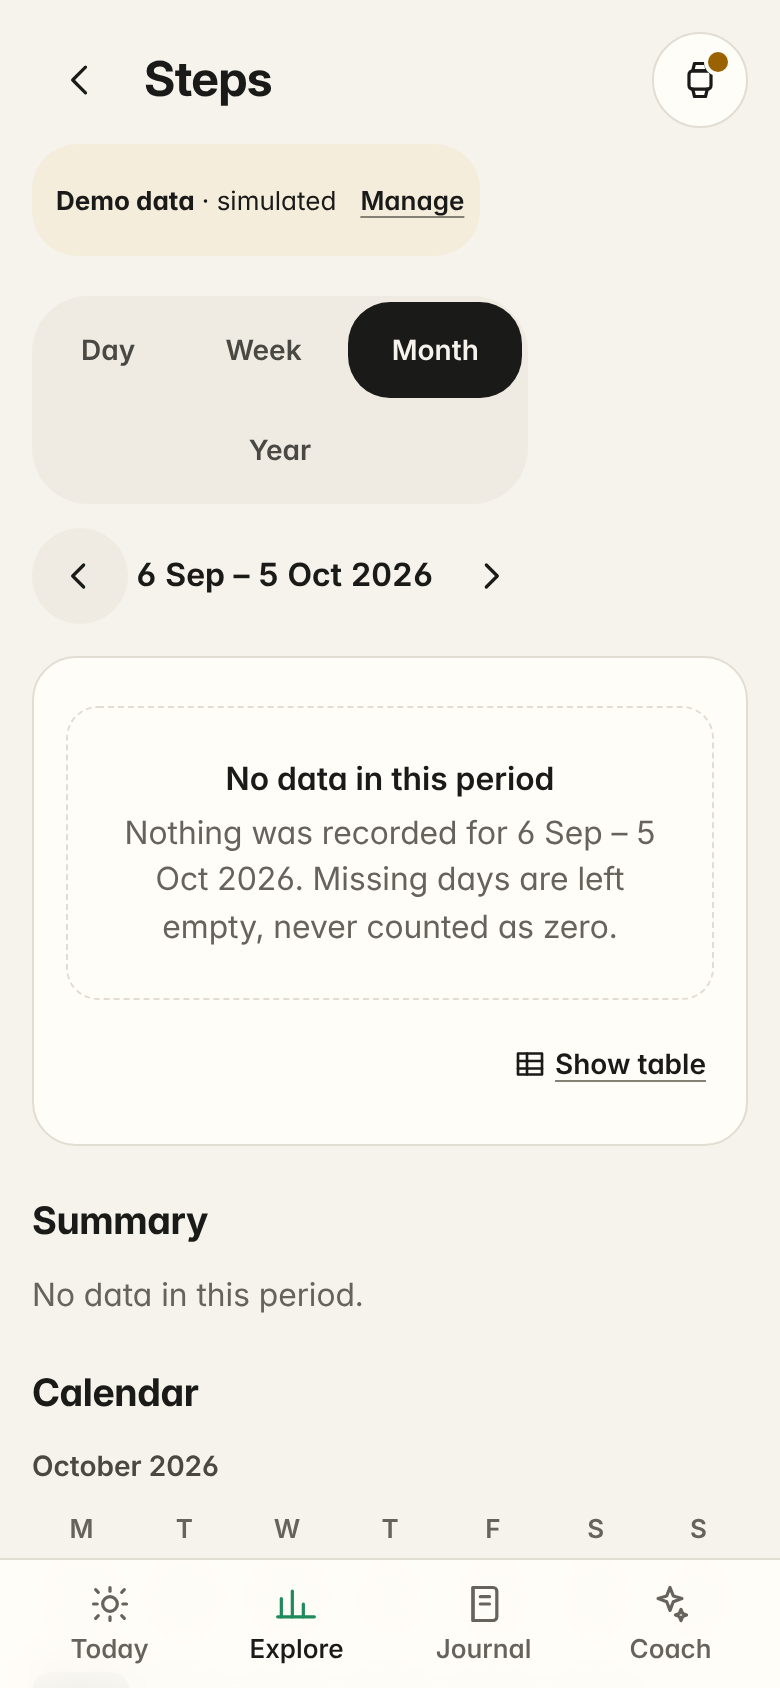
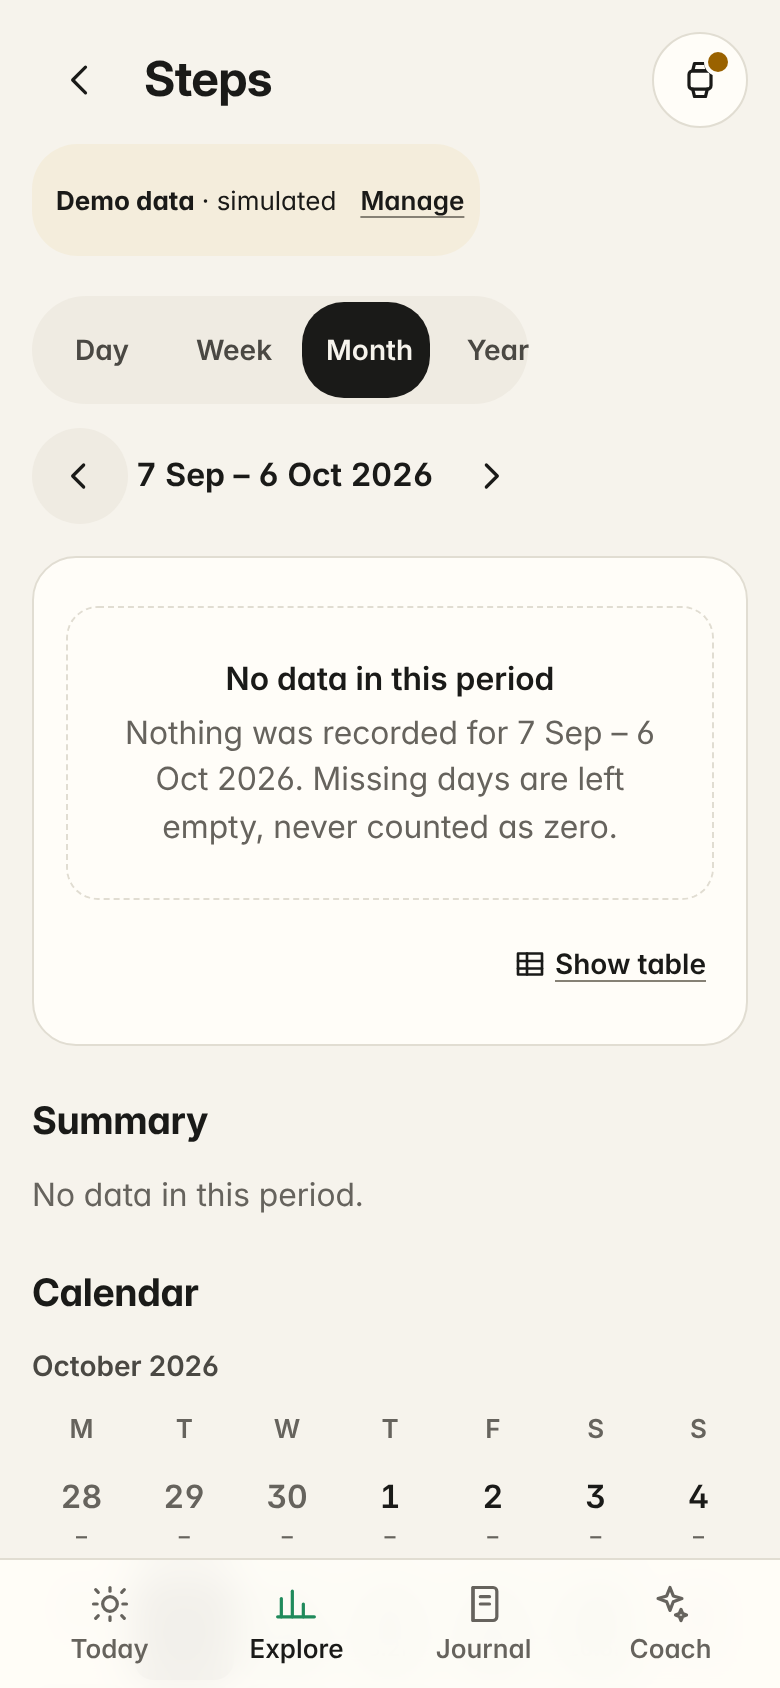
Fix round-three review findings: daily totals across zones, selector, labels
- A daily total covers its whole day: once used, lower-ranked records for
  that day are counted as overlapped whatever frame they were recorded in
  (no double counting when the home zone is far ahead, e.g. Sydney).
- Coverage uses the frame-clipped intervals, so counters recorded abroad
  report their real share of the day.
- Demo never puts the disconnect (and live readings) in the future just
  after midnight; the browser test runs at a fixed time of day.
- Range selector stays on one row; it wraps only when large text leaves
  no room (container query in em).
- Axis labels use the smallest regular step that fits, so spacing stays even.
- The running-counter footnote appears only when a counter produced the
  selected day's value.
- Favourites grid reflows to one column at large text.

Claude-Session: https://claude.ai/code/session_01VbyZ4WPkwabFdouNp5ib2H

diff --git a/app/style/app.css b/app/style/app.css
@@ -570,7 +570,11 @@ body:has(.app) .preboot { display: none; }
 /* ---- Large text (Android font scale / zoom up to 200%) ----------------- */
 .tile.hero { container: hero / inline-size; }
 /* Segmented control: equal columns that wrap into two rows rather than overflow. */
-.segmented { flex-wrap: wrap; }
+.segmented { flex-wrap: nowrap; }
+/* Only wrap the range selector when large text leaves no room for one row
+   (em here follows the user's text size). */
+.detail-controls { container: controls / inline-size; }
+@container controls (max-width: 17.5em) { .segmented { flex-wrap: wrap; } }
 .seg { flex: 1 1 auto; min-width: min(64px, 100%); padding: 0 var(--s3); }
 /* Tab labels are short, fixed words: cap their growth so four always fit. */
 .tab { font-size: min(var(--fs-xs), 17px); min-width: 0; }
@@ -582,3 +586,6 @@ body:has(.app) .preboot { display: none; }
    the radius tracks the text size instead of being infinite. */
 .btn, .status-strip, .date-pick, .demo-banner.compact, .segmented { border-radius: min(var(--r-pill), 1.75em); }
 .seg { border-radius: min(var(--r-pill), 1.5em); }
+.fav-grid { grid-template-columns: repeat(auto-fit, minmax(min(100%, 8.5rem), 1fr)); }
+@media (min-width: 560px) { .fav-grid { grid-template-columns: repeat(auto-fit, minmax(min(100%, 8.5rem), 1fr)); } }
+.fav-grid > * { min-width: 0; }

diff --git a/crates/airspace-core/src/aggregate.rs b/crates/airspace-core/src/aggregate.rs
@@ -585,9 +585,17 @@ fn additive_with(s: &mut DaySummary, day: NaiveDate, ms: &[&Measurement], contex
     let mut parts = vec![];
     let mut overlapped = 0u32;
     let mut rejected = 0u32;
+    let mut daily_total_used = false;
     for ((_, source), mut g) in groups {
         let kind = g[0].kind;
         let origin = g[0].prov.origin;
+        // A daily total is the whole day by definition: once one is used, every
+        // lower-ranked record for that day is already counted in it, whatever
+        // time frame it was recorded in.
+        if daily_total_used {
+            overlapped += g.len() as u32;
+            continue;
+        }
         g.sort_by_key(|m| (m.start, m.prov.ingested_at));
         let mut total = 0.0;
         // The exact intervals this source contributed (coverage uses these, not the span).
@@ -607,6 +615,7 @@ fn additive_with(s: &mut DaySummary, day: NaiveDate, ms: &[&Measurement], contex
                 overlapped += g.len() as u32 - 1;
                 extend(ds, de, &mut span);
                 contributed = true;
+                daily_total_used = true;
             }
             SampleKind::Interval => {
                 let mut last_end = i64::MIN;
@@ -712,7 +721,9 @@ fn additive_with(s: &mut DaySummary, day: NaiveDate, ms: &[&Measurement], contex
         s.method = "No usable records".into();
     } else {
         s.value = Some(parts.iter().map(|p| p.value).sum());
-        let covered_ms = union_len(all_intervals, ds, de);
+        // Counter parts are already clipped to the day in the frame they were
+        // recorded in, which may not be the home zone's day bounds.
+        let covered_ms = union_len(all_intervals, i64::MIN / 4, i64::MAX / 4);
         s.coverage = Some((covered_ms as f64 / (de - ds) as f64).min(1.0));
         s.method = if parts.len() == 1 {
             format!("From {}", parts[0].label.to_lowercase())
@@ -988,6 +999,26 @@ mod tests {
             .collect();
         let total: f64 = summarize(&items, &ctx).iter().filter_map(|x| x.value).sum();
         assert_eq!(total, 1300.0);
+    }
+
+    #[test]
+    fn daily_total_wins_even_when_home_zone_is_far_ahead() {
+        // Daily total 12,000 plus a 2,000-step interval recorded at 09:00 −04:00;
+        // home zone Sydney, where that interval falls on the next calendar day.
+        let h = 3_600_000;
+        let ctx = SummaryContext { tz: parse_tz("Australia/Sydney"), now: i64::MAX / 2, demo: false };
+        let mut total = m(Metric::Steps, SampleKind::DailyTotal, D0, None, 12_000.0, Origin::HistoryImport);
+        total.day = Some("2026-10-30".into());
+        total.id = measurement_id(&total);
+        let mut iv = m(Metric::Steps, SampleKind::Interval, D0 + 13 * h, Some(D0 + 14 * h), 2000.0, Origin::HistoryImport);
+        iv.utc_offset_min = Some(-240);
+        iv.id = measurement_id(&iv);
+        let day = day_of(&iv, &ctx.tz);
+        total.day = Some(time::day_key(day));
+        total.id = measurement_id(&total);
+        let s = summarize(&[total, iv], &ctx);
+        let d = s.iter().find(|x| x.day == time::day_key(day)).unwrap();
+        assert_eq!(d.value, Some(12_000.0));
     }
 
     #[test]

diff --git a/app/src/ui/charts.rs b/app/src/ui/charts.rs
@@ -89,25 +89,44 @@ fn label_width(s: &str) -> f64 {
 /// never overlap or run off the card at any width.
 fn fit_labels(mut items: Vec<(f64, String)>, w: f64, left: f64) -> Vec<(f64, &'static str, String)> {
     items.sort_by(|a, b| a.0.total_cmp(&b.0));
-    let mut out: Vec<(f64, &'static str, String)> = vec![];
-    let mut min_x = f64::INFINITY;
-    for (x, t) in items.into_iter().rev() {
-        let lw = label_width(&t);
-        let (anchor, x0, x1) = if x + lw / 2.0 > w - 2.0 {
+    let place = |x: f64, t: &str| {
+        let lw = label_width(t);
+        if x + lw / 2.0 > w - 2.0 {
             ("end", x - lw, x)
         } else if x - lw / 2.0 < left - 4.0 {
             ("start", x, x + lw)
         } else {
             ("middle", x - lw / 2.0, x + lw / 2.0)
-        };
-        if x1 + 8.0 > min_x {
-            continue;
         }
-        min_x = x0;
-        out.push((x, anchor, t));
+    };
+    let n = items.len();
+    // Use the smallest regular step (every label, every 2nd, every 3rd, ...),
+    // counted back from the latest, at which no two labels collide. A regular
+    // step keeps the spacing even instead of leaving uneven holes.
+    for step in 1..=n.max(1) {
+        let chosen: Vec<usize> = (0..n).filter(|i| (n - 1 - i) % step == 0).collect();
+        let mut prev_end = f64::NEG_INFINITY;
+        let mut ok = true;
+        for &i in &chosen {
+            let (_, x0, x1) = place(items[i].0, &items[i].1);
+            if x0 < prev_end + 8.0 {
+                ok = false;
+                break;
+            }
+            prev_end = x1;
+        }
+        if ok {
+            return chosen
+                .into_iter()
+                .map(|i| {
+                    let (x, t) = items[i].clone();
+                    let (anchor, _, _) = place(x, &t);
+                    (x, anchor, t)
+                })
+                .collect();
+        }
     }
-    out.reverse();
-    out
+    vec![]
 }
 
 /// Path for an optional trend overlay (e.g. a 7-day rolling average),

diff --git a/app/src/screens/explore.rs b/app/src/screens/explore.rs
@@ -494,7 +494,8 @@ fn additive_day(app: &App, metric: Metric, ms: &Arc<Vec<Measurement>>, day: Naiv
             }
         })
         .collect();
-    let counters = ms.iter().any(|m| m.kind == airspace_core::SampleKind::CumulativeCounter);
+    // Only when a running counter actually produced this day's value.
+    let counters = !daily_only && ms.iter().any(|m| m.kind == airspace_core::SampleKind::CumulativeCounter && airspace_core::aggregate::day_of(m, &tz) == day);
     let rows: Vec<Vec<String>> = buckets.iter().map(|b| vec![b.label.clone(), b.text.clone()]).collect();
     let title = format!("{} per hour on {}", catalog::info(metric).title, day_short(day));
     // Time with no records at all (e.g. charging, disconnected) is a gap, not zero.

diff --git a/crates/airspace-core/src/demo.rs b/crates/airspace-core/src/demo.rs
@@ -132,7 +132,8 @@ pub fn generate(end_day: NaiveDate, tz: &Tz, now: i64) -> DemoDataset {
 
     // Simulated live session on the last day: history synced through `sync`,
     // then live recording until `disconnected`.
-    let disconnected = (now - 134 * MINUTE_MS).max(today_start + 30 * MINUTE_MS);
+    // Never in the future, even just after midnight.
+    let disconnected = (now - 134 * MINUTE_MS).max(today_start + 30 * MINUTE_MS).min(now);
     let sync = (now - 6 * 60 * MINUTE_MS).max(today_start).min(disconnected - 20 * MINUTE_MS);
 
     let mut journal = vec![];

diff --git a/README.md b/README.md
@@ -59,7 +59,7 @@ No feature pretends to work: unavailable adapters say what is missing.
 
 ## Verification status
 
-* **Rust tests** (`cargo test -p airspace-core -p airspace-tauri`): 63 pass. They cover:
+* **Rust tests** (`cargo test -p airspace-core -p airspace-tauri`): 64 pass. They cover:
   * aggregation, cumulative counters and resets (including steps that span midnight or were recorded
     in another time zone), naps, coverage,
     and overlap between imported history and live data;
